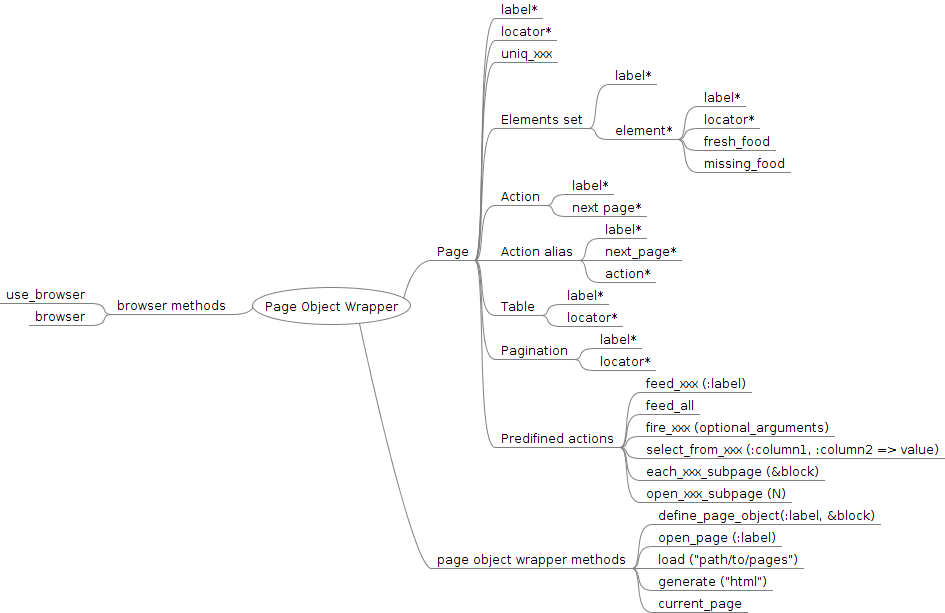
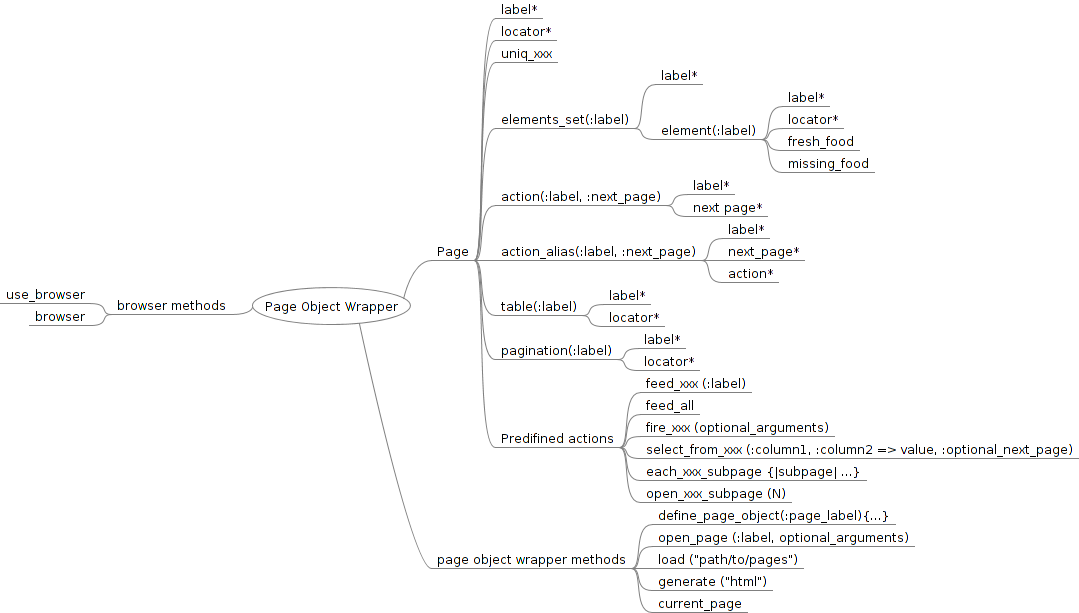
v.1.2.0

Changed region(s): [[0.0, 0.0, 1.0, 1.0], [0.6138, 0.093, 0.6751, 0.155]]

diff --git a/spec/select_from_spec.rb b/spec/select_from_spec.rb
@@ -17,6 +17,7 @@ describe "page_object.select_from_xxx" do
     let!(:tp){ PageObjectWrapper.open_page(:some_test_page)}
 
     context "wrong arguments" do
+
       it "raises ArgumentError if first_arg not a Symbol" do
         expect{ tp.select_from_table_without_header(nil,{}) }.to raise_error ArgumentError, "nil not a Symbol"
       end
@@ -38,35 +39,73 @@ describe "page_object.select_from_xxx" do
       it "raises Watir::Exception::UnknownObjectException if requested for non existing column" do
         expect{ tp.select_from_table_without_header(:column_3).text }.to raise_error(Watir::Exception::UnknownObjectException)
       end
+      
+      context "next_page specified" do
+        it "raises ArgumentError if next_page not symbol" do
+          expect{ tp.select_from_table_without_header(:column_1, nil, 'a string') }.to raise_error ArgumentError, '"a string" not a Symbol'
+          expect{ tp.select_from_table_without_header(:column_1, {:column_1 => 'Ireland'}, 'a string') }.to raise_error ArgumentError, '"a string" not a Symbol'
+        end
+        it "raises ArgumentError if next_page not loaded" do
+          expect{ tp.select_from_table_without_header(:column_1, nil, :nonexistent_page) }.to raise_error ArgumentError, ':nonexistent_page not known Page'
+          expect{ tp.select_from_table_without_header(:column_1, {:column_1 => 'Ireland'}, :nonexistent_page) }.to raise_error ArgumentError, ':nonexistent_page not known Page'
+        end
+      end
     end
 
     context "where == nil" do
-      it "returns last row value from provided column" do
-        tp.select_from_table_without_header(:column_0).text.should eq 'Sweden'
-        tp.select_from_table_without_header(:column_1).text.should eq '449,964'
-        tp.select_from_table_without_header(:column_2).text.should eq '410,928'
+      context "next_page not specified" do
+        it "returns last row value from provided column" do
+          tp.select_from_table_without_header(:column_0).text.should eq 'Sweden'
+          tp.select_from_table_without_header(:column_1).text.should eq '449,964'
+          tp.select_from_table_without_header(:column_2).text.should eq '410,928'
+        end
+      end
+      context "next_page specified" do
+        it "returns last row value from provided column" do
+          tp.select_from_table_without_header(:column_0, nil, :some_test_page).should eq PageObjectWrapper.receive_page(:some_test_page)
+        end
       end
     end
 
     context "where not nil" do
-      context "found by String" do
-        it "returns found cells" do
-          tp.select_from_table_without_header(:column_0, :column_1 => '103,000').text.should eq 'Iceland'
-          tp.select_from_table_with_header(:country, :total_area => '337,030').text.should eq 'Finland'
+      context "next_page not specified" do
+        context "found by String" do
+          it "returns found cells" do
+            tp.select_from_table_without_header(:column_0, :column_1 => '103,000').text.should eq 'Iceland'
+            tp.select_from_table_with_header(:country, :total_area => '337,030').text.should eq 'Finland'
+          end
+          it "returns nil" do
+            tp.select_from_table_without_header(:column_0, :column_1 => '123').should eq nil
+            tp.select_from_table_with_header(:country, :total_area => '123').should eq nil
+          end
         end
-        it "returns nil" do
-          tp.select_from_table_without_header(:column_0, :column_1 => '123').should eq nil
-          tp.select_from_table_with_header(:country, :total_area => '123').should eq nil
+        context "found by Regexp" do
+          it "returns found cells" do
+            tp.select_from_table_without_header(:column_0, :column_1 => /103/).text.should eq 'Iceland'
+            tp.select_from_table_with_header(:country, :total_area => /337/).text.should eq 'Finland'
+          end
+          it "returns nil" do
+            tp.select_from_table_without_header(:column_0, :column_1 => /123/).should eq nil
+            tp.select_from_table_with_header(:country, :total_area => /123/).should eq nil
+          end
         end
       end
-      context "found by Regexp" do
-        it "returns found cells" do
-          tp.select_from_table_without_header(:column_0, :column_1 => /103/).text.should eq 'Iceland'
-          tp.select_from_table_with_header(:country, :total_area => /337/).text.should eq 'Finland'
+      context "next_page specified" do
+        context "found by String" do
+          it "returns found cells" do
+            tp.select_from_table_without_header(:column_0, {:column_1 => '103,000'}, :some_test_page).should eq PageObjectWrapper.receive_page(:some_test_page)
+          end
+          it "returns nil" do
+            tp.select_from_table_without_header(:column_0, {:column_1 => '123'}, :some_test_page).should eq nil
+          end
         end
-        it "returns nil" do
-          tp.select_from_table_without_header(:column_0, :column_1 => /123/).should eq nil
-          tp.select_from_table_with_header(:country, :total_area => /123/).should eq nil
+        context "found by Regexp" do
+          it "returns found cells" do
+            tp.select_from_table_without_header(:column_0, {:column_1 => /103/}, :some_test_page).should eq PageObjectWrapper.receive_page(:some_test_page)
+          end
+          it "returns nil" do
+            tp.select_from_table_without_header(:column_0, {:column_1 => /123/}, :some_test_page).should eq nil
+          end
         end
       end
     end

diff --git a/spec/open_spec.rb b/spec/open_spec.rb
@@ -2,8 +2,8 @@ require 'spec_helper'
 
 describe "PageObjectWrapper.open_page" do
   context "browser is closed" do
-    it "raises Errno::ECONNREFUSED (I don't understand why here it behaves like this)" do
-      expect{ PageObjectWrapper.open_page(:google_page) }.to raise_error(Errno::ECONNREFUSED)
+    it "raises PageObjectWrapper::BrowserNotFound" do
+      expect{ PageObjectWrapper.open_page(:google_page) }.to raise_error(PageObjectWrapper::BrowserNotFound)
     end
   end
 
@@ -17,15 +17,49 @@ describe "PageObjectWrapper.open_page" do
     after(:all){ PageObjectWrapper.browser.quit }
 
     it "raises errors" do        
-      expect{ PageObjectWrapper.open_page(:first_arg, :second_arg) }.to raise_error(ArgumentError)
       expect{ PageObjectWrapper.open_page(:unknown_page) }.to raise_error(PageObjectWrapper::UnknownPageObject)
       expect{ PageObjectWrapper.open_page(:wrong_google_page) }.to raise_error(PageObjectWrapper::UnmappedPageObject)
     end
 
-    it "returns opened PageObject instance" do
-      p = PageObjectWrapper.open_page(:google_page)
-      p.should be_an_instance_of(PageObject)
-      p.label_value.should eq(:google_page)
+    context "no optional arguments" do
+      it "returns opened PageObject instance" do
+        p = PageObjectWrapper.open_page(:google_page)
+        p.should be_an_instance_of(PageObject)
+        p.label_value.should eq(:google_page)
+      end
+    end
+
+    context "with optional arguments" do
+      context "optional hash key not Symbol" do
+        it "raises ArgumentError" do
+          expect{ PageObjectWrapper.open_page(:dynamic_url_page, 'a string' => 'a string') }.to raise_error ArgumentError, '"a string" not Symbol'
+        end
+      end
+      context "optional hash value not meaningful String" do
+        it "raises ArgumentError" do
+          expect{ PageObjectWrapper.open_page(:dynamic_url_page, :param => '') }.to raise_error ArgumentError, '"" not meaningful String'
+        end
+      end
+      context "one optional parameter not known" do
+        it "raises PageObjectWrapper::DynamicUrl" do
+          expect{ PageObjectWrapper.open_page(:dynamic_url_page, :domain => 'google.com', :unknown_url_parameter => '123') }.to raise_error PageObjectWrapper::DynamicUrl, ":unknown_url_parameter not known parameter"
+        end
+      end
+      context "at least one dynamic parameter specified" do
+        it "opens page with all parameters replaced with specified" do
+          begin
+            PageObjectWrapper.open_page(:dynamic_url_page, :domain => 'google.com')
+          rescue PageObjectWrapper::UnmappedPageObject
+            PageObject.browser.url.should =~ /google.\w+\/:path/
+          end
+        end
+      end
+      context "all dynamic parameters specified" do
+        it "opens page with all parameters replaced with specified" do
+          PageObjectWrapper.open_page(:dynamic_url_page, :domain => 'google.com', :path => 'advanced_search')
+          PageObject.browser.url.should =~ /google.\w+\/advanced_search/
+        end
+      end
     end
 
     context "domain is not specified" do

diff --git a/lib/page_object_wrapper/PageObject.rb b/lib/page_object_wrapper/PageObject.rb
@@ -123,13 +123,21 @@ class PageObject < DslElementWithLocator
     end
   end
 
-  def self.open_page label
+  def self.open_page label, optional_hash=nil
     raise PageObjectWrapper::BrowserNotFound if @@browser.nil?
     raise PageObjectWrapper::UnknownPageObject, label if not @@pages.collect(&:label_value).include?(label)
     page_object = PageObject.find_page_object(label)
     url = ''
     url += @@domain if page_object.locator_value[0]=='/'
     url += page_object.locator_value
+    if not (optional_hash.nil? or optional_hash.empty?)
+      optional_hash.each{|k,v|
+        raise ArgumentError, "#{k.inspect} not Symbol" if not k.is_a? Symbol
+        raise ArgumentError, "#{v.inspect} not meaningful String" if not v.is_a? String or v.empty?
+        raise PageObjectWrapper::DynamicUrl, "#{k.inspect} not known parameter" if not url.match(':'+k.to_s)
+        url.gsub!(/:#{k.to_s}/, v)
+      }
+    end
     @@browser.goto url
   end
 
@@ -168,6 +176,14 @@ class PageObject < DslElementWithLocator
     eset = ElementsSet.new(label)
     eset.instance_eval(&block)
     @esets << eset
+    eset.elements.each{|e|
+      PageObject.send :define_method, (e.label_value.to_s+'_fresh_food').to_sym do
+        e.fresh_food_value
+      end
+      PageObject.send :define_method, (e.label_value.to_s+'_missing_food').to_sym do
+        e.missing_food_value
+      end
+    }
     @elements += eset.elements
     eset
   end
@@ -318,13 +334,20 @@ private
     @@current_page
   end
 
-  def select_from_table(table, header, where=nil)
+  def select_from_table(table, header, *args)
+    where = args[0]
+    next_page = args[1]
     raise PageObjectWrapper::BrowserNotFound if @@browser.nil? or not @@browser.exist?
     t = @@browser.table(table.locator_value)
     raise ArgumentError, "#{header.inspect} not a Symbol" if not header.is_a? Symbol
     raise ArgumentError, "#{header.inspect} not in table header" if not table.header_value.include? header
     search_for_index = table.header_value.index(header)
     found = nil
+
+    if not next_page.nil?
+      raise ArgumentError, "#{next_page.inspect} not a Symbol" if not next_page.is_a? Symbol
+      raise ArgumentError, "#{next_page.inspect} not known Page" if not labeled(@@pages).include?(next_page)
+    end
 
     if not where.nil?
       raise ArgumentError, "#{where.inspect} not a meaningful Hash" if not where.is_a? Hash or where.empty?
@@ -346,7 +369,16 @@ private
     else # where == nil
       found = t.rows.last.cells[search_for_index]
     end
-    found
+
+    if not next_page.nil?
+      if not found.nil?
+        return PageObject.find_page_object(next_page)
+      else
+        return nil
+      end
+    else # next_page == nil
+      return found
+    end
   end
 
   def each_pagination

diff --git a/spec/get_food_spec.rb b/spec/get_food_spec.rb
@@ -1,0 +1,28 @@
+require 'spec_helper'
+describe "getting food specified for element" do
+  subject{ PageObjectWrapper.receive_page(:some_test_page) }
+
+  describe "page_object.xxx_fresh_food" do
+    it "raises NoMethodError if xxx is not known element" do
+      expect{ subject.unknown_fresh_food }.to raise_error(NoMethodError)  
+    end      
+
+    it{ should respond_to(:tf_fresh_food) }
+    its(:tf_fresh_food){ should eq 'some fresh food' }
+
+    it{ should respond_to(:ta_fresh_food) }
+    its(:ta_fresh_food){ should eq 'default fresh food' }
+  end
+
+  describe "page_object.xxx_missing_food" do
+    it "raises NoMethodError if xxx is not known element" do
+      expect{ subject.unknown_fresh_food }.to raise_error(NoMethodError)  
+    end      
+
+    it{ should respond_to(:tf_fresh_food) }
+    its(:tf_missing_food){ should eq 'some missing food' }
+
+    it{ should respond_to(:ta_fresh_food) }
+    its(:ta_missing_food){ should eq 'default missing food' }
+  end
+end

diff --git a/lib/page_object_wrapper.rb b/lib/page_object_wrapper.rb
@@ -57,8 +57,8 @@ module PageObjectWrapper
     PageObject.find_page_object(label)
   end
 
-  def self.open_page(label)
-    PageObject.open_page label
+  def self.open_page(label, *args)
+    PageObject.open_page label, *args
     PageObject.map_current_page label
   end
 end

diff --git a/lib/page_object_wrapper/Exceptions.rb b/lib/page_object_wrapper/Exceptions.rb
@@ -5,4 +5,5 @@ module PageObjectWrapper
   class UnmappedPageObject < StandardError; end
   class Load < StandardError; end
   class BrowserNotFound < StandardError; end
+  class DynamicUrl < StandardError; end
 end

diff --git a/good_pages/dynamic_url_page.rb b/good_pages/dynamic_url_page.rb
@@ -1,0 +1,4 @@
+PageObjectWrapper.define_page(:dynamic_url_page) do
+  locator ':domain/:path'
+  uniq_text_field :name => 'as_q' 
+end

diff --git a/lib/page_object_wrapper/version.rb b/lib/page_object_wrapper/version.rb
@@ -1,3 +1,3 @@
 module PageObjectWrapper
-  VERSION = "1.1.2"
+  VERSION = "1.2.0"
 end

diff --git a/README.md b/README.md
@@ -99,8 +99,10 @@ where required attributes are marked with (*)
       end
 
 here we have defined a page object with locator (url) = 'http://www.cs.tut.fi/~jkorpela/www/testel.html'  
-uniq\_xxx is used to define a uniq element on that page, which uniquely identifies the page from other pages  
-uniq\_xxx is being checked when openning the page with PageObjectWrapper.open\_page and when running an page\_object.action  
+- uniq\_xxx is used to define a uniq element on that page, which uniquely identifies the page from other pages  
+- uniq\_xxx is being checked when openning the page with PageObjectWrapper.open\_page and when running an page\_object.action  
+- all defined elements have labels
+- action and action_alias defined with labels and next_pages
 
 #### openning the page
 *preconditions*  
@@ -122,8 +124,18 @@ There is a directory, where we've defined a page\_object inside a \*\_page.rb fi
 - .open\_page method takes page label, directs browser to that page and returns corresponding page\_object
 - PageObjectWrapper.current\_page points to the opened page\_object
 - it's possible to set page\_object locator in 2 different ways: specifying full url (like in example) or specifying PageObjectWrapper.domain and page\_object local path (like in specs)
+- it's possible to set dynamic urls for pages, e.g.
+      PageObjectWrapper.define_page(:google) do
+        locator 'www.google.com/:some_param'
+      end
+      PageObjectWrapper.open_page(:google, :some_param => 'advanced_search') # => 'http://google.com/advanced_search'
 
-#### page\_object.xxx
+#### page\_object.xxx 
+*parameters*  
+no  
+*returns*  
+Watir::XXX element  
+  
 Defined elements can be accessed with their labels.
 - element from an element\_set is corresponds to real Watir::Element
 - elemets\_set corresponds to an Array of Watir::Element  
@@ -137,7 +149,12 @@ Defined elements can be accessed with their labels.
 
 
 
-#### feed\_xxx
+#### feed\_xxx 
+*parameters*  
+:fresh\_food, :missing\_food  
+*returns*  
+current\_page  
+  
 *preconditions*  
 **tp** is a :some\_test\_page object opened in the browser
 
@@ -163,7 +180,12 @@ Defined elements can be accessed with their labels.
         @b.textarea(:id => 'f2').value.should eq('Default data')
 
 
-#### fire\_xxx
+#### fire\_xxx 
+*parameters*  
+optional arguments defined inside action  
+*returns*  
+next\_page from xxx action  
+  
 *preconditions*  
 **tp** is a :some\_test\_page object opened in the browser
 
@@ -185,7 +207,13 @@ Defined elements can be accessed with their labels.
         tp.fire_fill_textarea_alias
         @b.textarea(:id => 'f2').value.should eq('Default data')
 
-#### select\_from\_xxx
+#### select\_from\_xxx  
+*parameters*  
+:column\_1, :column\_2 => search\_value, :optional\_next\_page  
+*returns*  
+Watir::TableCell if next\_page not specified  
+next\_page if it is specified  
+  
 *preconditions*  
 **tp** is a :some\_test\_page object opened in the browser  
 its syntax is close to SQL *'select column1 from page\_object.some\_table where column2 = string\_or\_regexp'*     
